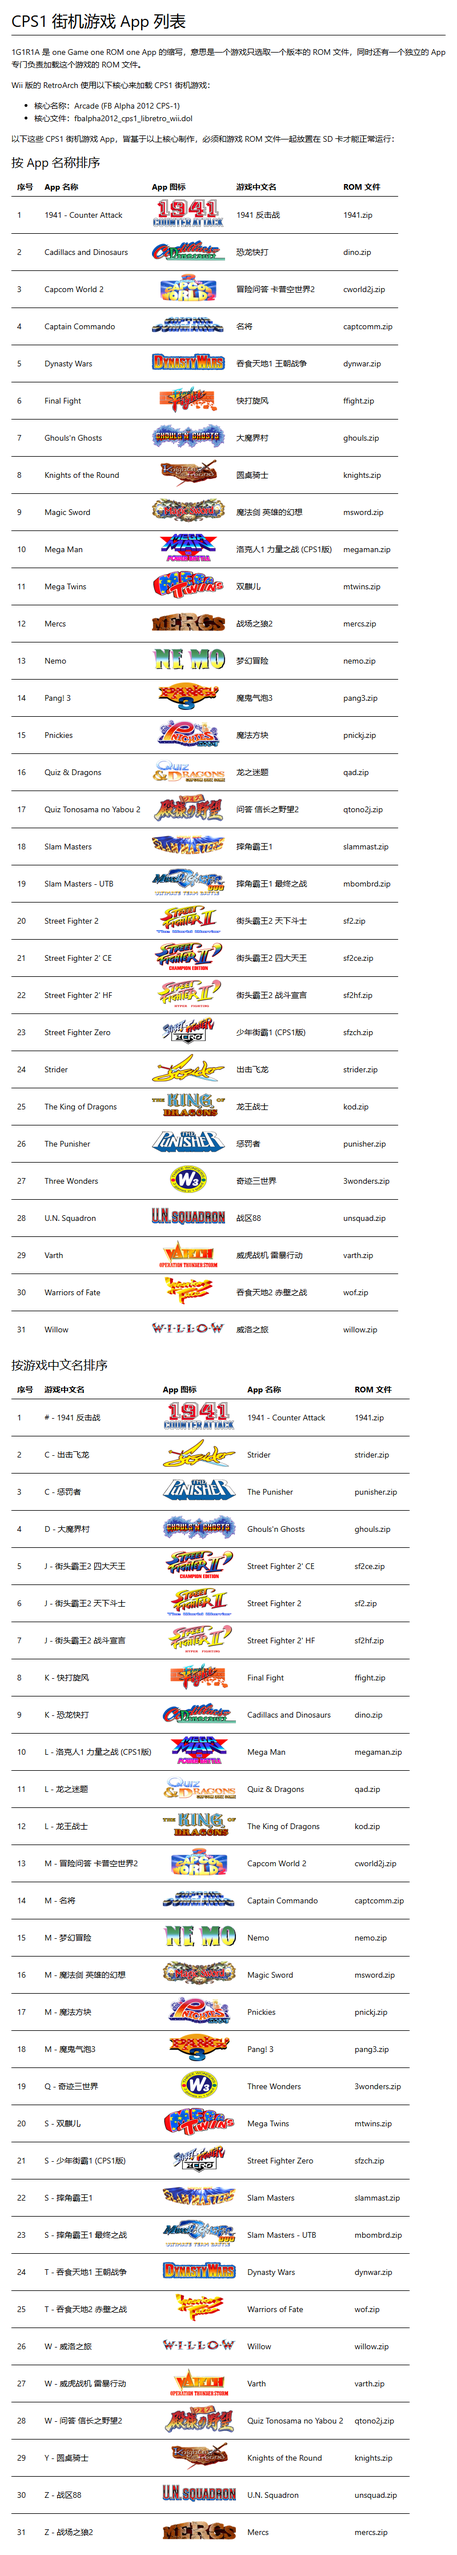
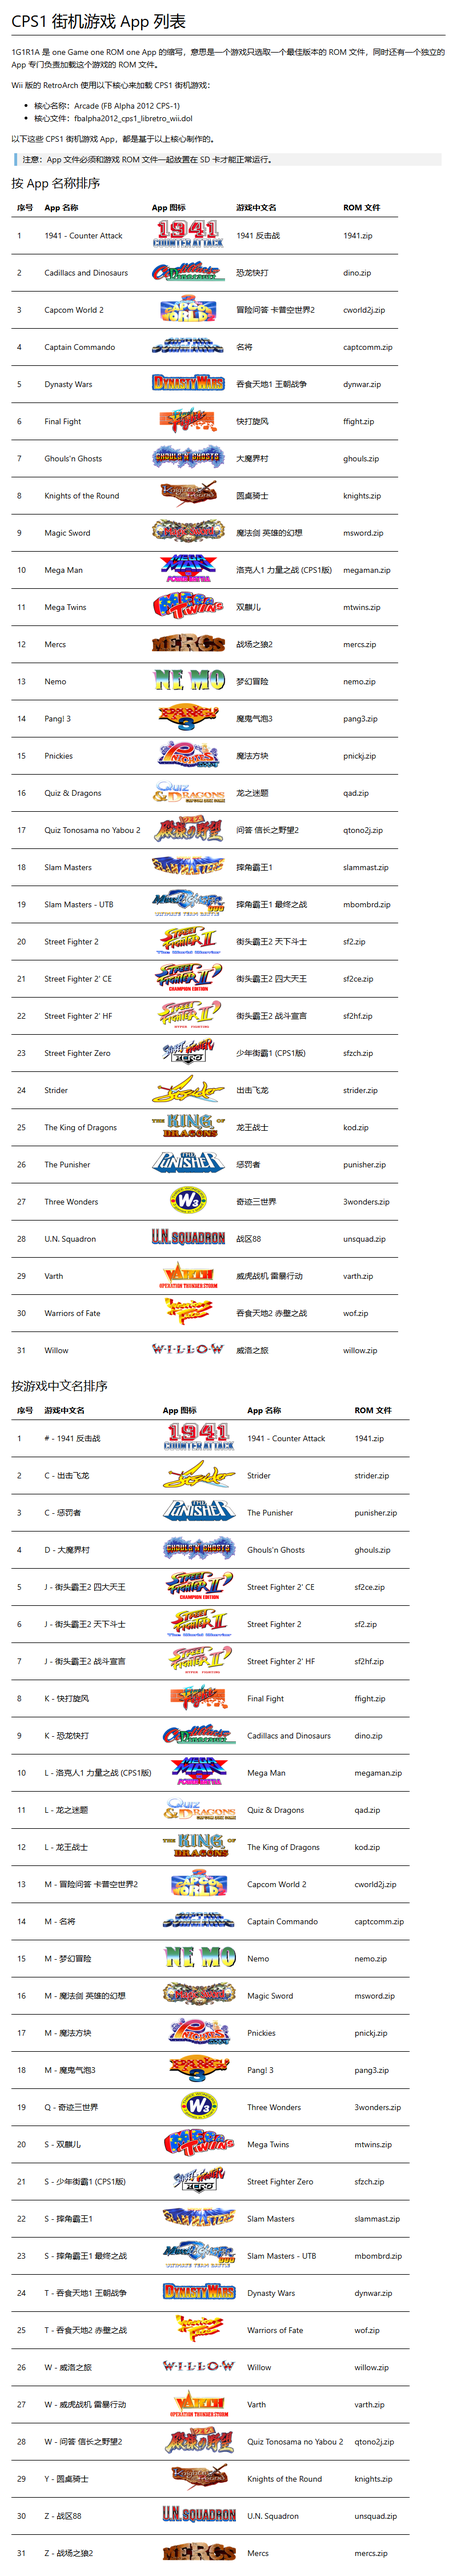
update CPS1 Apps (RA核心)

Changed region(s): [[0.0312, 0.0, 0.7188, 0.9951], [0.75, 0.0622, 0.875, 0.9951], [0.0312, 0.6841, 0.0625, 0.964]]

diff --git a/CPS1 Apps (RA核心1.22.2版).md b/CPS1 Apps (RA核心1.22.2版).md
@@ -1,12 +1,14 @@
 # CPS1 街机游戏 App 列表
 
-1G1R1A 是 one Game one ROM one App 的缩写，意思是一个游戏只选取一个版本的 ROM 文件，同时还有一个独立的 App 专门负责加载这个游戏的 ROM 文件。
+1G1R1A 是 one Game one ROM one App 的缩写，意思是一个游戏只选取一个最佳版本的 ROM 文件，同时还有一个独立的 App 专门负责加载这个游戏的 ROM 文件。
 
 Wii 版的 RetroArch 使用以下核心来加载 CPS1 街机游戏：
 - 核心名称：Arcade (FB Alpha 2012 CPS-1)
 - 核心文件：fbalpha2012_cps1_libretro_wii.dol
 
-以下这些 CPS1 街机游戏 App，皆基于以上核心制作，必须和游戏 ROM 文件一起放置在 SD 卡才能正常运行：
+以下这些 CPS1 街机游戏 App，都是基于以上核心制作的。
+
+> 注意：App 文件必须和游戏 ROM 文件一起放置在 SD 卡才能正常运行。
 
 ## 按 App 名称排序
 
